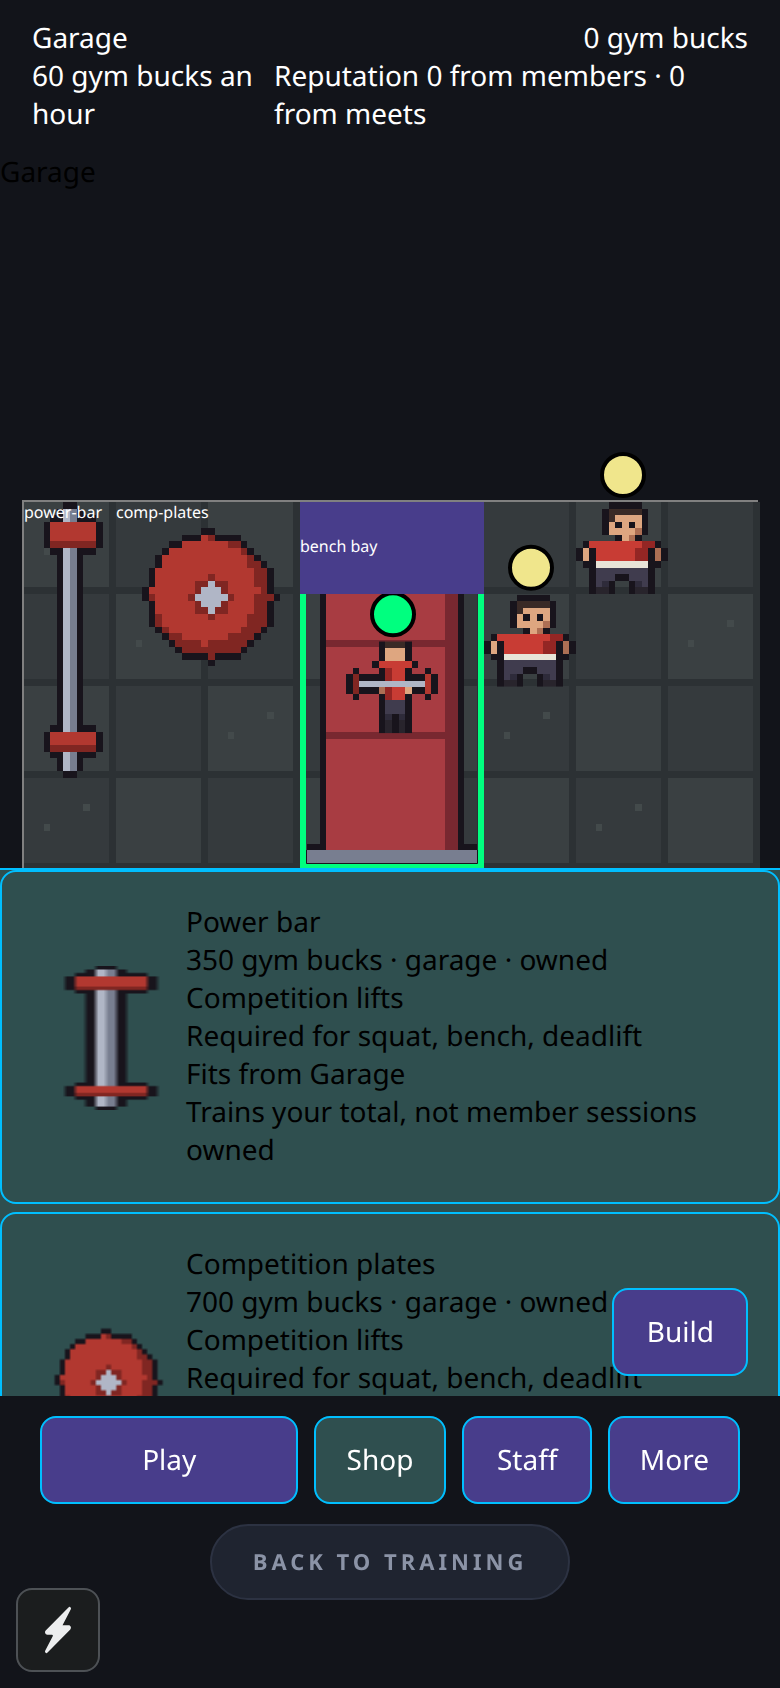
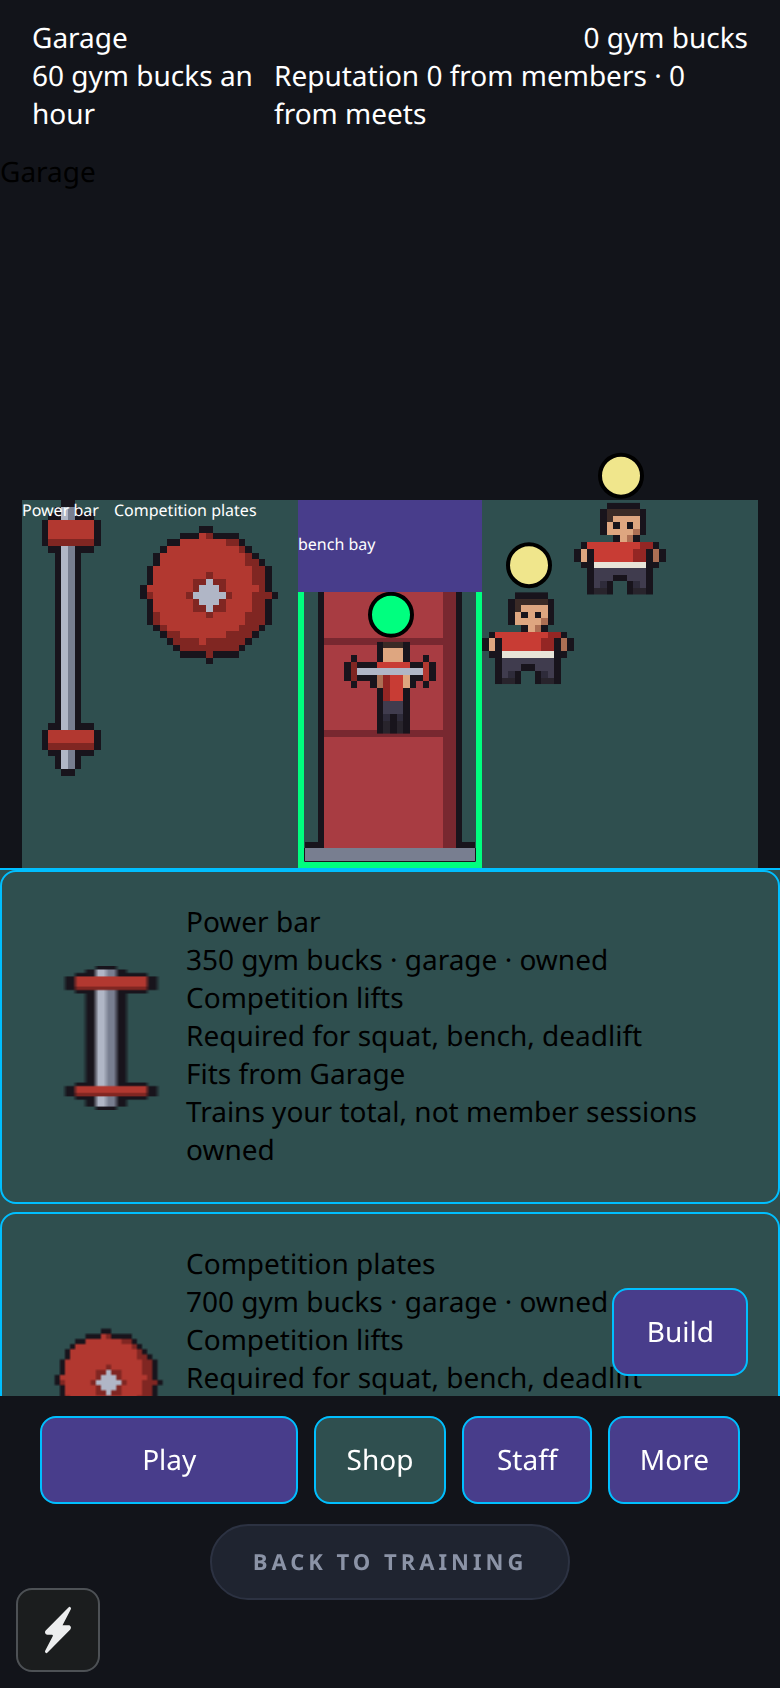
SF-TWL-GYM-EMPIRE-UX-01: recapture after shots, Exit Build to Play
390x844 after shots: Play has no tile-seam atlas and no overlay lines.
Build keeps the snap grid. play-after-exit-build.png is Done FAB back to
Play with no leftover build chrome (tray hidden, FAB reads Build).

Changed region(s): [[0.0308, 0.2773, 0.9846, 0.5237]]

diff --git a/src/empire/empireForbiddenOutput.test.ts b/src/empire/empireForbiddenOutput.test.ts
@@ -12939,7 +12939,7 @@ const DRIVE_CENSUS = Object.freeze({
   // 6247 -> 6253: Stage D2 reset-gym Pressable stacks on driven GymScreen
   // trees. Read from this pin's own failure value.
   // 6290 -> 6291: Stage G.2C1 stay-response drive Error.stack readings.
-  STACKS: 6297, // CAREER-EMPIRE-REP-01 GymScreen reputation diagnostics
+  STACKS: 6690, // SF-TWL-GYM-EMPIRE-UX-01 Play labels walk
   STACK_FINDINGS: 0,
   /** Banned-name-equal strings, and every one of them from a ban-list export. */
   BANNED_EQUAL: 7,
@@ -18072,7 +18072,7 @@ const CHANNEL_CENSUS_TOTALS = Object.freeze({
   // stayState wiring. Read from this pin last.
   // 84_813 -> 86_105: Stage G.2C2 livingMemberDeparture.ts plus roster/sim
   // departure wiring. Read from this pin last.
-  NODES_EXAMINED: 95_070, // SF-TWL-GYM-EMPIRE-UX-01 player-facing gym chrome AST
+  NODES_EXAMINED: 95_090, // SF-TWL-GYM-EMPIRE-UX-01 Play labels + gym-bucks AST
   // 99 -> 108: members.ts's nine refuseWith calls.
   // 99 -> 104: floor.ts's own five `refuseWith` calls, independently.
   // Combined: 99 -> 113.
